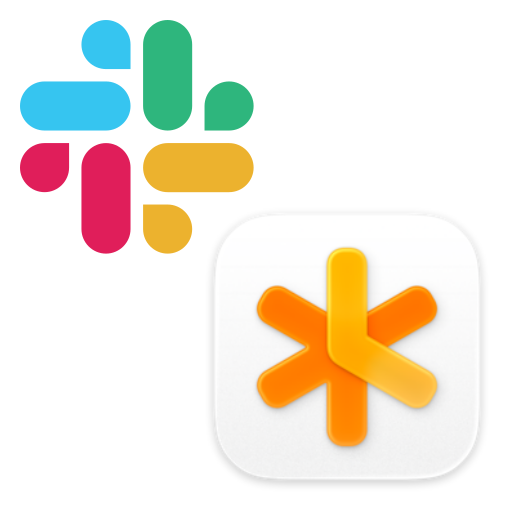
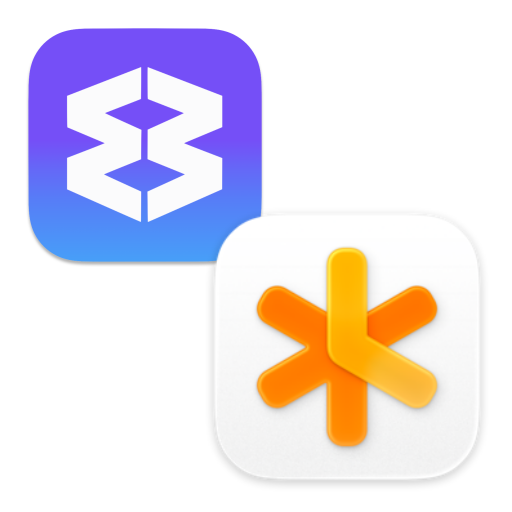
Follow : fec/⌥⌘, copient le lien de l'onglet actif
Une seule action de copie, quel que soit l'onglet : message Slack survolé,
mail (avec son auteur, comme dans une tâche fe) ou page web. Plus
d'activation de NotePlan. Le TODO sur ⌥⌘, est tranché et supprimé.

Changed region(s): [[0.0312, 0.0312, 0.5312, 0.5312]]

diff --git a/workflows/follow/follow.js b/workflows/follow/follow.js
@@ -1,7 +1,7 @@
 #!/usr/bin/env osascript -l JavaScript
 // Follow — liens et tâches de suivi NotePlan depuis l'onglet actif du navigateur
 // (Wavebox) : message Slack survolé, conversation Gmail ou page web.
-//   slack-copy          lien du message Slack survolé -> presse-papier + active NotePlan
+//   copy                lien de l'onglet actif -> presse-papier  (keyword fec, ⌥⌘,)
 //   task <args>         tâche de suivi pour l'onglet actif  (keyword fe)
 //   status              recherche NotePlan sur l'onglet actif : déjà suivi ?  (keyword fes)
 //   waiting-open        ouvre la note d'attente  (keyword feg, Hyper+A)
@@ -27,7 +27,6 @@ const noteplan = require('lib/noteplan');
 const { planTask, followTaskLine, findOpenTask } = require('lib/follow');
 const { currentItem } = require('lib/sources/current');
 const gmail = require('lib/sources/gmail');
-const slack = require('lib/sources/slack');
 
 function conf() {
   const days = parseInt(env('gca_conf_waiting_days', '2'), 10);
@@ -95,13 +94,14 @@ function run(argv) {
     const c = conf();
 
     switch (cmd) {
-      case 'slack-copy': {
-        const link = slack.currentMessageLink('Wavebox');
-        if (dryRun) return link;
-        app.setTheClipboardTo(link);
-        Application('NotePlan').activate();
+      case 'copy': {
+        // Comme dans une tâche fe : l'auteur d'un mail devant son lien.
+        const { recipients, link } = currentItem(c.browser, c.aliases);
+        const text = [recipients, link].filter(Boolean).join(' ');
+        if (dryRun) return text;
+        app.setTheClipboardTo(text);
         ui.notify('Lien copié — Cmd+V pour le coller.');
-        return link;
+        return text;
       }
       case 'task':
         return addTask(ui, c, { rawArgs, ...currentItem(c.browser, c.aliases) }, dryRun);
@@ -121,7 +121,7 @@ function run(argv) {
         return url;
       }
       default:
-        throw new UserError('Commande inconnue : « ' + cmd + ' » (slack-copy, task, status, waiting-open).');
+        throw new UserError('Commande inconnue : « ' + cmd + ' » (copy, task, status, waiting-open).');
     }
   });
 }

diff --git a/lib/sources/slack.js b/lib/sources/slack.js
@@ -89,14 +89,6 @@ const PAYLOAD = String.raw`(() => {
 
 const isSlack = (url) => /^https:\/\/app\.slack\.com\//.test(url);
 
-function slackTab(appName) {
-  const tab = wavebox.browser(appName).windows[0].activeTab;
-  if (!isSlack(tab.url())) {
-    throw new UserError('L’onglet actif du navigateur n’est pas Slack.');
-  }
-  return tab;
-}
-
 // Message survolé ou sélectionné de l'onglet Slack `tab`, null s'il n'y en a pas.
 function captureMessage(tab) {
   const raw = wavebox.executeJS(tab, PAYLOAD);
@@ -150,12 +142,6 @@ function buildMarkdown(res) {
   return parts.length ? '[#⃣ ' + parts.join(' - ') + '](' + res.url + ')' : res.url;
 }
 
-function currentMessageLink(appName) {
-  const res = captureMessage(slackTab(appName));
-  if (!res) throw new UserError('Aucun message survolé ou sélectionné au clavier.');
-  return buildMarkdown(res);
-}
-
 // Identifiant du message dans son permalien (…/archives/C…/p1700000000123456,
 // lien markdown accepté) : clé de recherche des tâches dans NotePlan.
 function messageKey(link) {
@@ -163,4 +149,4 @@ function messageKey(link) {
   return m ? m[1] : '';
 }
 
-module.exports = { PAYLOAD, isSlack, slackTab, captureMessage, buildMarkdown, currentMessageLink, messageKey };
+module.exports = { PAYLOAD, isSlack, captureMessage, buildMarkdown, messageKey };

diff --git a/tools/icons.py b/tools/icons.py
@@ -99,9 +99,7 @@ def designs(wavebox, noteplan):
     return {
         # workflow Follow : Slack + Wavebox -> NotePlan
         'follow': svg(glyph('slack', 26, 22, 176), image(wavebox, 4, 226, 222), image(noteplan, 186, 170, 326)),
-        # hotkey ⌥⌘, : Slack -> NotePlan (dessin d'origine du keyword fs)
-        'fs': svg(glyph('slack', 20, 20, 234), image(noteplan, 182, 182, 330)),
-        # keyword fe : Wavebox -> NotePlan
+        # objets fe, fec… : Wavebox -> NotePlan
         'fe': svg(image(wavebox, 0, 0, 290), image(noteplan, 182, 182, 330)),
         'paste': svg(glyph('paste', 0, 0, 512)),
         # Wavebox Tabs : Wavebox + les services qu'il fait passer au premier plan
@@ -114,8 +112,9 @@ def designs(wavebox, noteplan):
 # (bundleid, fichiers) pour chaque dessin ; <UID>.png = icône d'un objet
 TARGETS = {
     'follow': ('com.dmangin.follow', ['icon.png']),
-    'fs': ('com.dmangin.follow', ['8F2A1C3E-5B7D-4E9F-A1B2-C3D4E5F60718.png']),  # hotkey ⌥⌘,
     'fe': ('com.dmangin.follow', ['BC4F345C-879E-409D-AF43-6D111E01C152.png',    # keyword fe
+                                  'CD8E9FA0-3B4C-4D5E-9F6A-8B9CADBECFD8.png',    # keyword fec
+                                  '8F2A1C3E-5B7D-4E9F-A1B2-C3D4E5F60718.png',    # hotkey ⌥⌘,
                                   '7E3F4A5B-8C9D-4E0F-9A1B-3C4D5E6F7A83.png',    # keyword fes
                                   '9A5B6C7D-0E1F-4A2B-8C3D-5E6F7A8B9CA5.png',    # keyword feg
                                   'BC7D8E9F-2A3B-4C4D-8E5F-7A8B9CADBEC7.png']),  # hotkey Hyper+A

diff --git a/README.md b/README.md
@@ -4,13 +4,11 @@ Monorepo des workflows Alfred écrits en JXA (JavaScript for Automation) :
 pilotage de Wavebox (Gmail, Slack…) et tâches de suivi dans NotePlan, avec une
 lib partagée et testée.
 
-Décisions en attente : [TODO.md](TODO.md).
-
 ## Workflows
 
 | Workflow | Déclencheurs | Effet |
 |---|---|---|
-| **Follow** | `⌥⌘,` (dans Wavebox) | lien markdown du message Slack survolé (ou sélectionné au clavier) → presse-papier, active NotePlan ; `Cmd+V` manuel |
+| **Follow** | `fec`, `⌥⌘,` (dans Wavebox) | copie le lien de l'onglet actif — message Slack survolé, mail (précédé de son auteur) ou page ; `Cmd+V` pour le coller |
 | | `fe <jours> <prio> <action>` | tâche de suivi pour l'onglet actif : message Slack survolé, conversation Gmail ou page |
 | | `fes` | recherche NotePlan sur l'onglet actif : déjà suivi ? |
 | | `feg`, Hyper+`A` | ouvre la note d'attente |
@@ -108,8 +106,8 @@ absolu** : modifier un `.js` agit immédiatement, sans réimport.
 `make pull` les recopie ici. Les icônes de Wavebox et NotePlan sont extraites des
 applications installées ; Slack, Gmail, WhatsApp, Agenda et le presse-papier
 de Paste sont des glyphes SVG dessinés dans le script. Une icône propre à un
-objet Alfred (ici `⌥⌘,` en Slack → NotePlan ; `fe`, `fes`, `feg` et Hyper+`A`
-en Wavebox → NotePlan) est un fichier `<UID>.png` dans le
+objet Alfred (ici `fec`, `⌥⌘,`, `fe`, `fes`, `feg` et Hyper+`A` en Wavebox →
+NotePlan) est un fichier `<UID>.png` dans le
 dossier du workflow. `tools/icons.py preview <dossier>` produit un aperçu sans
 toucher à Alfred.
 

diff --git a/HISTORIQUE.md b/HISTORIQUE.md
@@ -74,6 +74,15 @@ mail s'il est déjà suivi.
 | Doublons dans les notes du jour | abandonné | même coût ; après la migration, les tâches en attente sont toutes dans la note d'attente |
 | Ordre d'ajout | fin de la note du jour (journal), tête de la note d'attente (les plus récentes visibles) | l'ordre utile, par échéance, demanderait de réécrire la note ; NotePlan montre de toute façon chaque tâche le jour de son échéance |
 
+**Copie du lien (04/11/2026)** : ⌥⌘, ne copiait que le lien d'un message
+Slack, alors qu'un lien de mail passait par `::mp` (Paste). Une seule action
+`copy` (keyword `fec` et ⌥⌘,, choix de Damien : les deux pour commencer)
+copie désormais le lien de l'onglet actif avec la même détection que `fe` —
+message Slack survolé, conversation Gmail précédée de son auteur comme dans
+une tâche, sinon la page —, sans plus activer NotePlan : le lien peut se
+coller ailleurs, et Hyper+`N` active NotePlan. `::mp`, qui colle au curseur,
+reste dans Paste.
+
 **Migration (03/11/2026)** : les tâches « Suivre » encore ouvertes des notes du
 jour ont été déplacées une fois pour toutes vers la note d'attente, par un
 script ponctuel (hors dépôt, archivé avec la sauvegarde des notes) :
